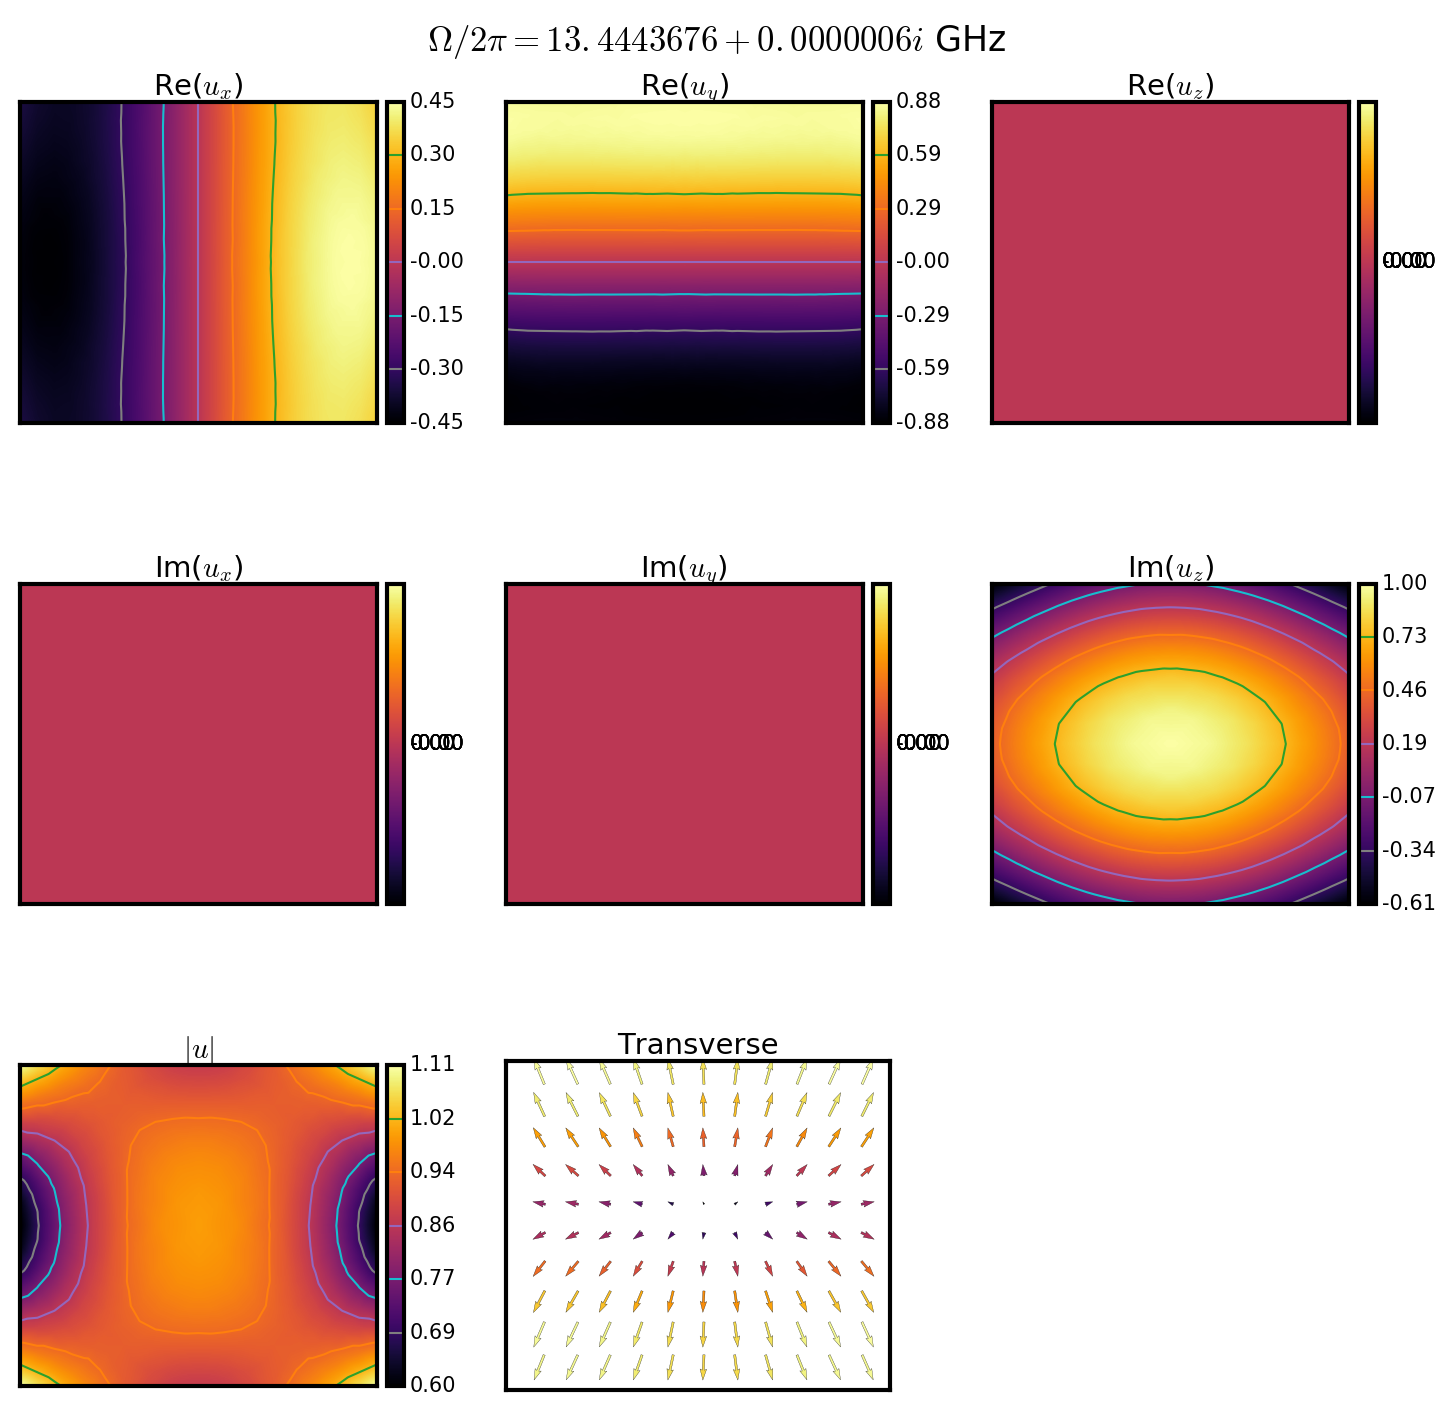
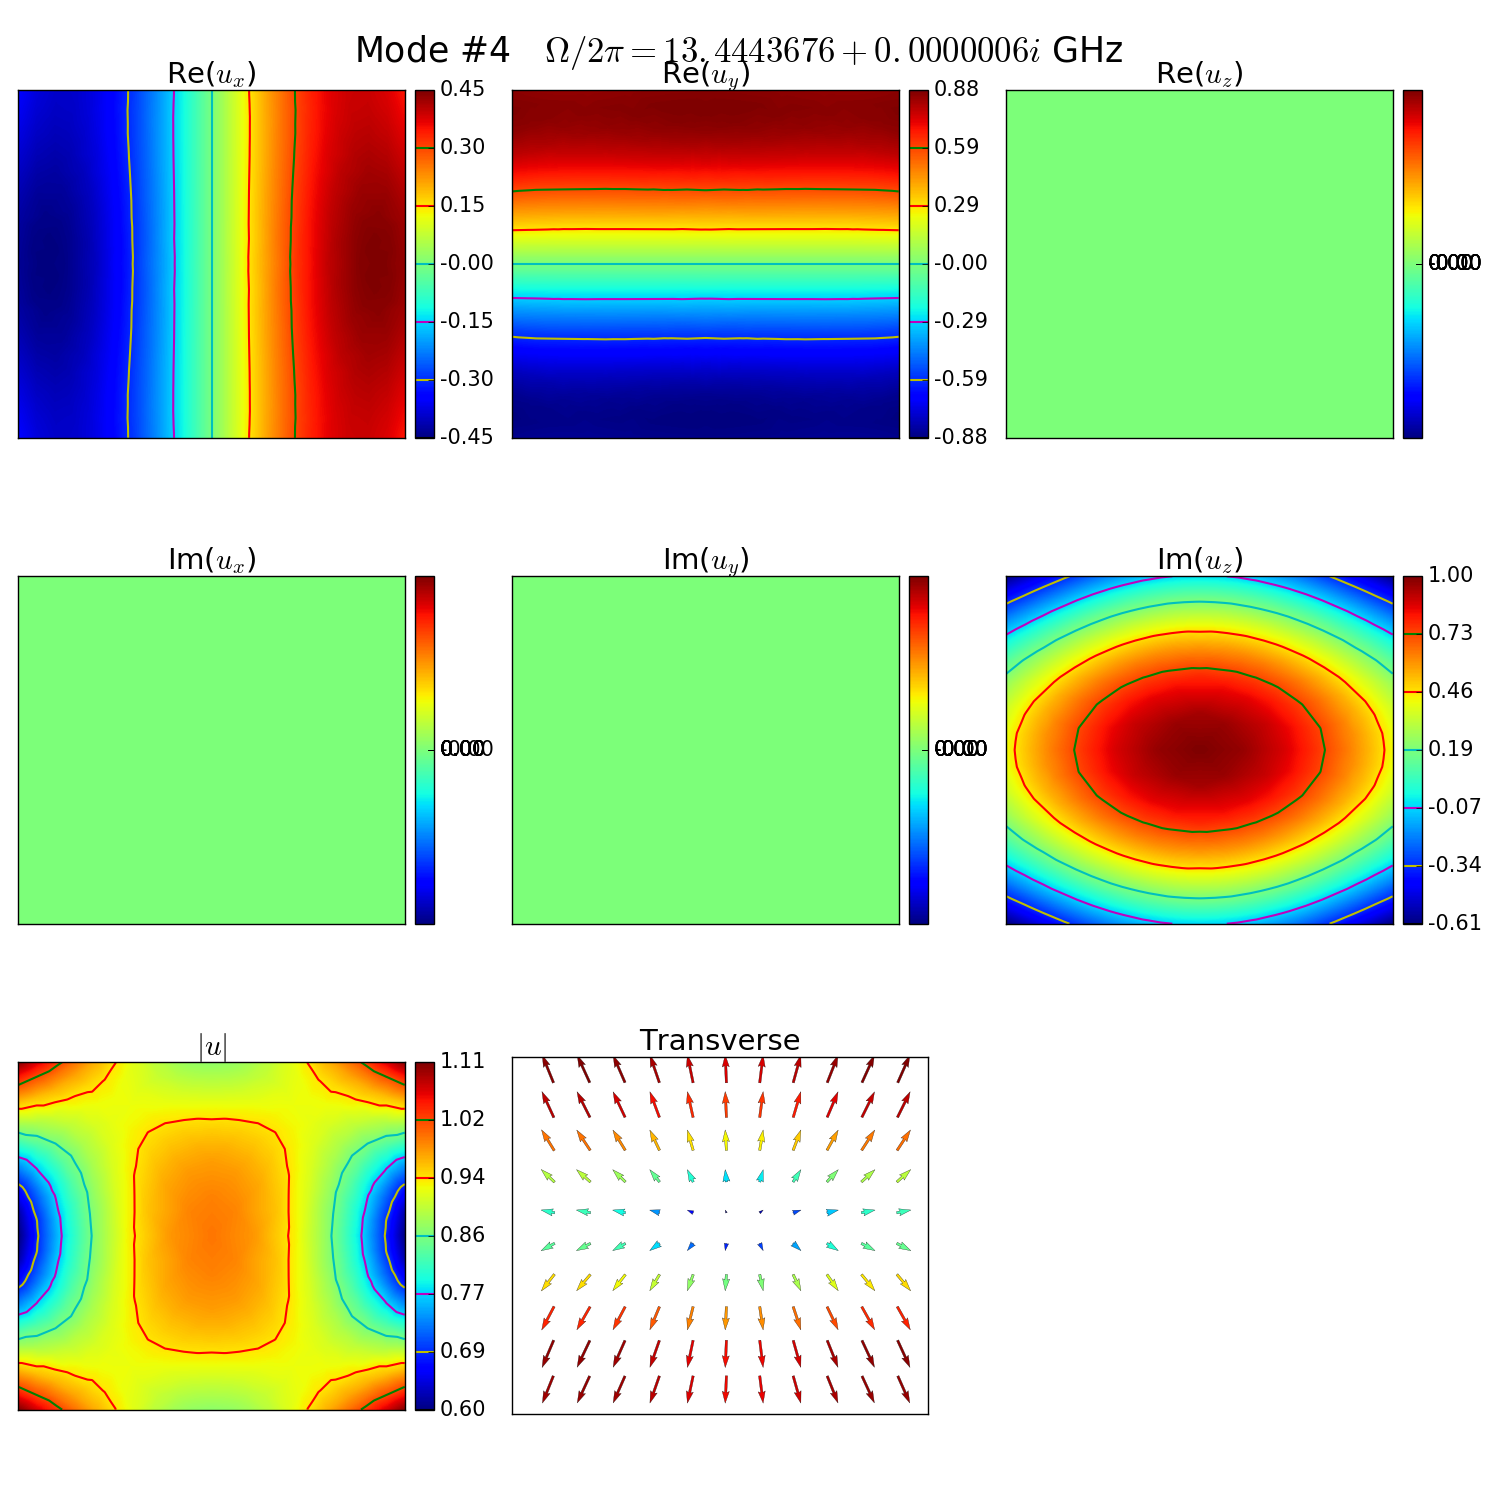
Catching color style dependency.

diff --git a/backend/plotting.py b/backend/plotting.py
@@ -34,9 +34,9 @@ from matplotlib import ticker
 from fortran import NumBAT
 
 try: 
-    plt.style.use('bjornstyle')
-    colors = [color['color'] for color in list(plt.rcParams['axes.prop_cycle'])]
-except (ValueError, IOError, AttributeError): "Preferred matplotlib style file not found."
+    plt.style.use('NumBATstyle2')
+except (ValueError, IOError, AttributeError): print("Preferred matplotlib style file not found.")
+colors = [color['color'] for color in list(plt.rcParams['axes.prop_cycle'])]
 
 
 # font = {'family' : 'normal',

diff --git a/README.rst b/README.rst
@@ -32,3 +32,9 @@ Followed by ::
     $ sudo ./setup.sh
 
 from the NumBAT/ directory.
+
+For optimal results ::
+
+	$ cp NumBAT/backend/NumBATstyle.mplstyle ~/.config/matplotlib/stylelib/
+
+or replace plt.style.use('NumBATstyle') in NumBAT/backend/plotting.py with your own prefered matplotlib style file.
